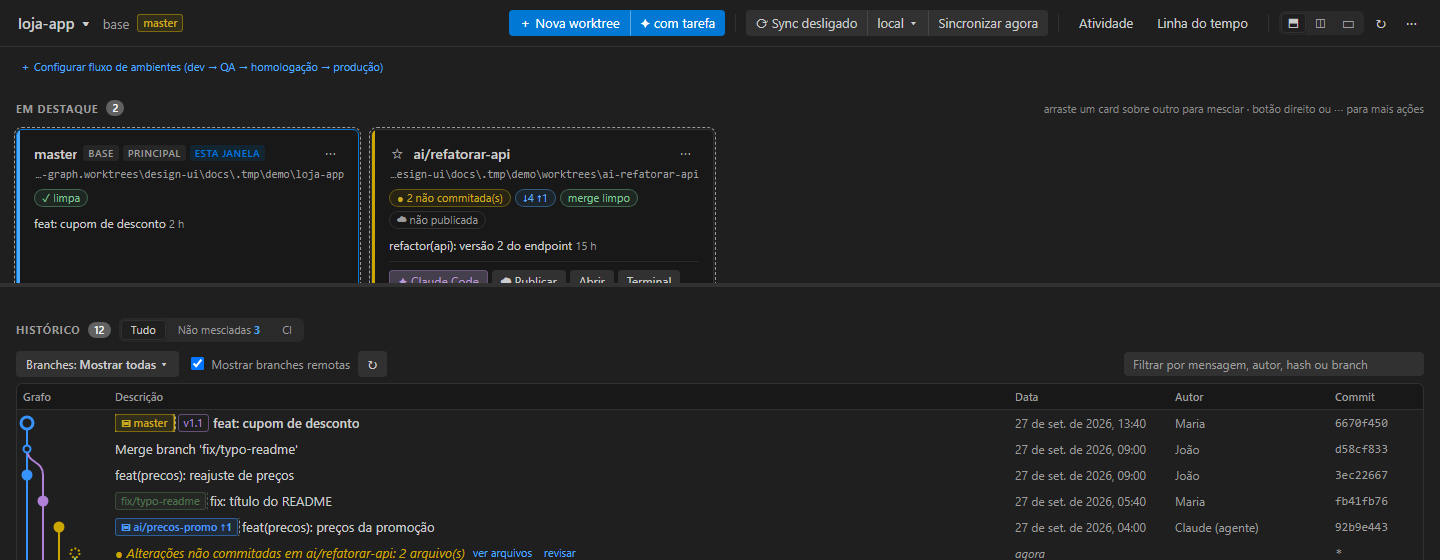
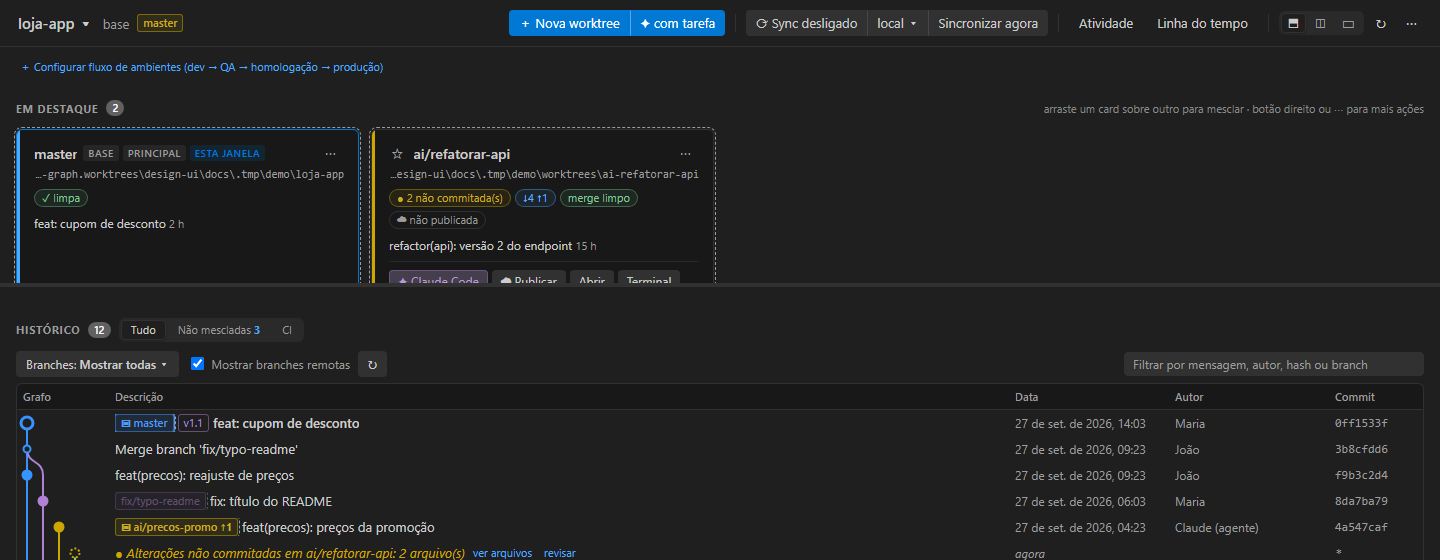
Histórico: etiqueta da branch com a cor da linha dela no grafo; espaço entre chips e botões na tabela

diff --git a/media/graph.js b/media/graph.js
@@ -644,7 +644,8 @@
     return state.branches.filter(b => !b.isBase && b.name !== state.base && !isProtected(b.name) && !unmerged.has(b.name)).length;
   }
 
-  function badge(r) {
+  /** lane: coluna do commit no grafo; com ela, a etiqueta de branch pega a cor da linha. */
+  function badge(r, lane) {
     const cls = { head: 'ref-head', remote: 'ref-remote', tag: 'ref-tag', detached: 'ref-detached' }[r.kind];
     const base = r.name === state.base && r.kind === 'head' ? ' ref-base' : '';
     const wt = r.worktree ? ' ref-wt' : '';
@@ -657,7 +658,8 @@
     const title = r.kind === 'head' ? `${r.worktree ? t('branch with worktree') : t('local branch')}${pending ? ` · ${ahead ? t('{0} commit(s) not in {1}', ahead, state.base) : t('commits not in {0}', state.base)}` : pending === false ? ` · ${t('already merged into {0}', state.base)}` : ''}` : r.kind;
     const req = r.kind === 'head' ? requestOf(r.name) : undefined;
     const lock = r.kind === 'head' && isProtected(r.name) ? '🔒 ' : '';
-    return `<span class="ref ${cls}${base}${wt}${cur}${merged}${pending ? ' ref-pending' : ''}" ${drag} ${drop} title="${esc(title)}${lock ? ` · ${t('protected')}` : ''}">${lock}${r.worktree ? '▣ ' : ''}${esc(r.name)}${ahead ? ` <b>↑${ahead}</b>` : ''}</span>${req ? requestChip(req) : ''}`;
+    const tone = lane !== undefined && (r.kind === 'head' || r.kind === 'remote') ? ` ref-lane" style="--tone:${COLORS[lane % COLORS.length]}` : '';
+    return `<span class="ref ${cls}${base}${wt}${cur}${merged}${pending ? ' ref-pending' : ''}${tone}" ${drag} ${drop} title="${esc(title)}${lock ? ` · ${t('protected')}` : ''}">${lock}${r.worktree ? '▣ ' : ''}${esc(r.name)}${ahead ? ` <b>↑${ahead}</b>` : ''}</span>${req ? requestChip(req) : ''}`;
   }
 
   function graphHeader(n, extra = '') {
@@ -724,7 +726,7 @@
     new Date(unix * 1000).toLocaleString(LOCALE, { day: '2-digit', month: 'short', year: 'numeric', hour: '2-digit', minute: '2-digit' });
 
   /** "main" e "origin/main" no mesmo commit viram uma etiqueta só. */
-  function groupedBadges(refs) {
+  function groupedBadges(refs, lane) {
     const heads = refs.filter(r => r.kind === 'head');
     const used = new Set();
     const out = [];
@@ -732,9 +734,9 @@
       if (h.kind !== 'head') continue;
       const remotes = refs.filter(r => r.kind === 'remote' && r.name.replace(/^[^/]+\//, '') === h.name);
       remotes.forEach(r => used.add(r.name));
-      out.push(badge(h).replace('</span>', remotes.map(r => `<span class="ref-origin" title="${t('{0} points to the same commit', esc(r.name))}">${esc(r.name.split('/')[0])}</span>`).join('') + '</span>'));
+      out.push(badge(h, lane).replace('</span>', remotes.map(r => `<span class="ref-origin" title="${t('{0} points to the same commit', esc(r.name))}">${esc(r.name.split('/')[0])}</span>`).join('') + '</span>'));
     }
-    for (const r of refs) if (r.kind !== 'head' && !used.has(r.name)) out.push(badge(r));
+    for (const r of refs) if (r.kind !== 'head' && !used.has(r.name)) out.push(badge(r, lane));
     return heads.length || out.length ? out.join('') : '';
   }
 
@@ -775,7 +777,7 @@
         const isHead = c.sha === state.headSha;
         const row = `<div class="row gg-row ${hide ? 'dim' : ''} ${c.boundary ? 'boundary' : ''} ${isHead ? 'head-row' : ''} ${i === openAt ? 'open' : ''}" data-sha="${c.sha}" data-parents="${c.parents.join(' ')}" ${c.boundary ? '' : `draggable="true" data-drag-commit="${c.sha}" `}${c.boundary ? `title="${t('Point on {0} where pending branches branched off', esc(state.base))}"` : ''}>
           <span class="gg-graph"></span>
-          <span class="desc">${groupedBadges(c.refs)}<span class="subject">${esc(c.subject)}</span></span>
+          <span class="desc">${groupedBadges(c.refs, c.x)}<span class="subject">${esc(c.subject)}</span></span>
           <span class="date" title="${ago(c.date)}">${fullDate(c.date)}</span>
           <span class="author">${esc(c.author)}</span>
           <span class="sha">${c.sha.slice(0, 8)}</span>

diff --git a/media/graph.css b/media/graph.css
@@ -152,6 +152,8 @@ table.branches tr:hover .row-actions > *, table.branches tr:focus-within .row-ac
 .ref-tag { --tone: var(--c-purple); background: transparent; }
 .ref-detached { --tone: var(--c-red); background: transparent; }
 .ref-current { box-shadow: 0 0 0 1px currentColor; }
+/* no histórico a etiqueta tem a cor da linha do grafo; o tipo fica no ▣ (worktree), negrito (base/worktree) e tracejado (remota) */
+.ref-remote.ref-lane { color: color-mix(in srgb, var(--tone) 85%, var(--fg)); border-style: dashed; border-color: color-mix(in srgb, var(--tone) 55%, transparent); background: transparent; }
 
 body.dragging [data-drop] { outline: 1px dashed var(--muted); outline-offset: 1px; }
 .drop-over { outline: 2px solid var(--accent) !important; background: color-mix(in srgb, var(--accent) 20%, transparent) !important; }
@@ -182,7 +184,8 @@ table.wts td.c-star { width: 24px; padding-right: 0; }
 table.wts td.c-name { max-width: 340px; overflow: hidden; }
 table.wts td.c-name .branch { font-size: 13px; }
 table.wts td.c-name .path { font-size: 10.5px; max-width: 340px; }
-table.wts td.c-chips .chip { margin-right: 3px; }
+/* chips e botões (✦ resolver) da linha: mesmo espaço entre todos */
+table.wts td.c-chips > * { margin: 2px 4px 2px 0; vertical-align: middle; }
 table.wts td.subject { overflow: hidden; text-overflow: ellipsis; max-width: 1px; width: 100%; }
 table.wts td.more { text-align: center; }
 table.wts .row-actions button { font-size: 12px; padding: 1px 7px; }
@@ -271,7 +274,7 @@ table.wts tr.dirty .branch { color: var(--warn); }
 .row.wip { color: var(--warn); font-style: italic; }
 .row.wip .link { font-style: normal; font-size: 11px; }
 
-button.agent.mini { font-size: 11px; padding: 0 6px; margin-left: 2px; }
+button.agent.mini { font-size: 11px; line-height: 16px; padding: 0 7px; border-radius: 9px; }
 /* seletor de projeto na barra */
 button.repo { background: transparent; border: 0; padding: 0 2px; font-size: 15px; font-weight: 600; color: var(--fg); }
 button.repo:hover:not(:disabled) { background: var(--ghost-hover); }
